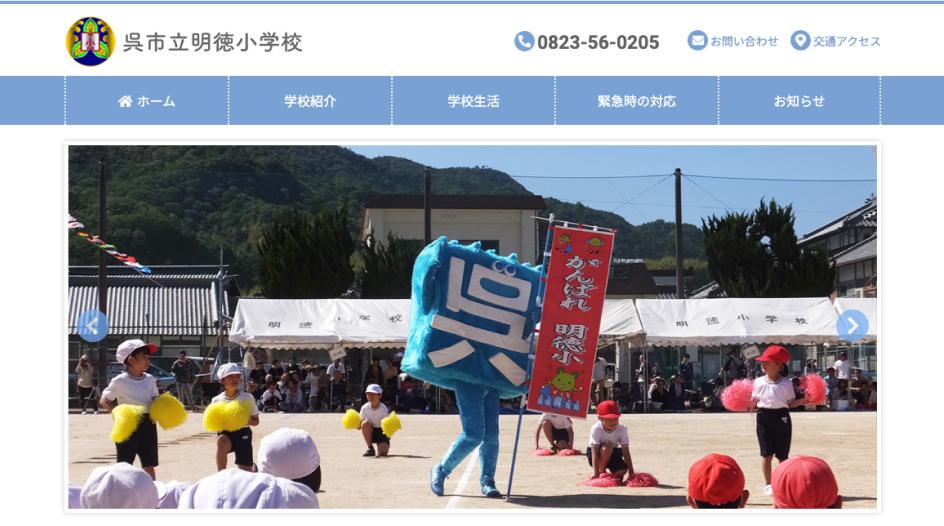
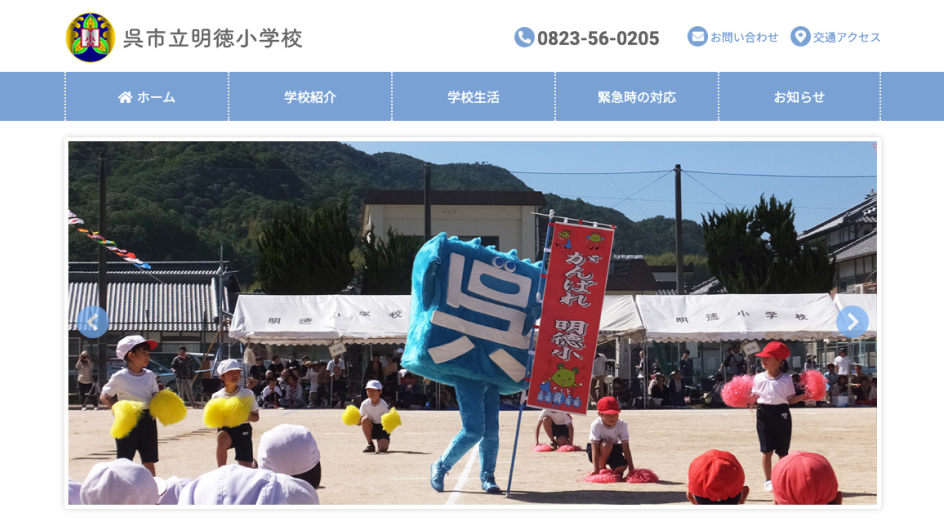
Adjust line-height and Change font-family

diff --git a/src/assets/scss/foundation/_base.scss b/src/assets/scss/foundation/_base.scss
@@ -1,7 +1,7 @@
 @use "../global/" as *;
 
 :root {
-  --font-base: "Noto Sans JP", sans-serif;
+  --font-base: "Zen Kaku Gothic Antique", sans-serif;
   --font-en: "Marcellus", serif;
   --base-color: #fbf7ec;
   --main-color: #1c1c16;
@@ -36,6 +36,8 @@ body {
   line-height: 1.5;
   text-rendering: optimizelegibility;
   background-image: url("/src/assets/img/bg.png");
+  letter-spacing: 0.05em;
+  font-feature-settings: "palt";
 }
 
 *:lang(en) {
